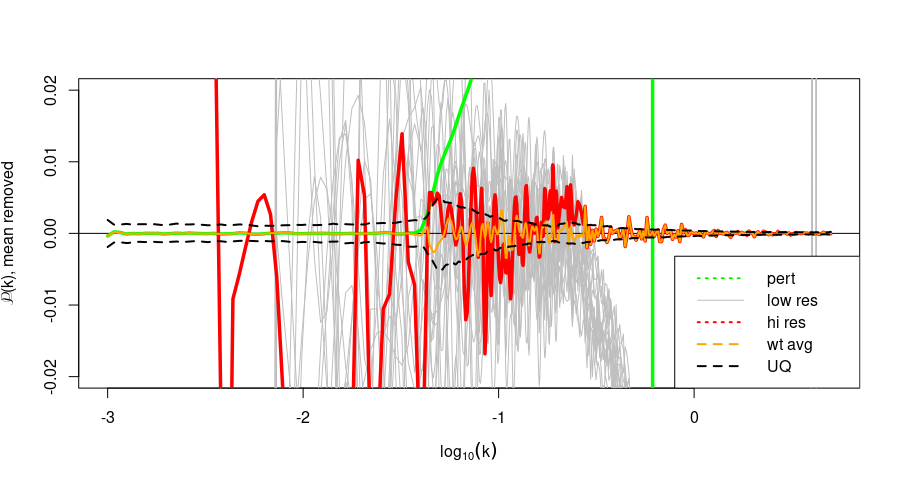
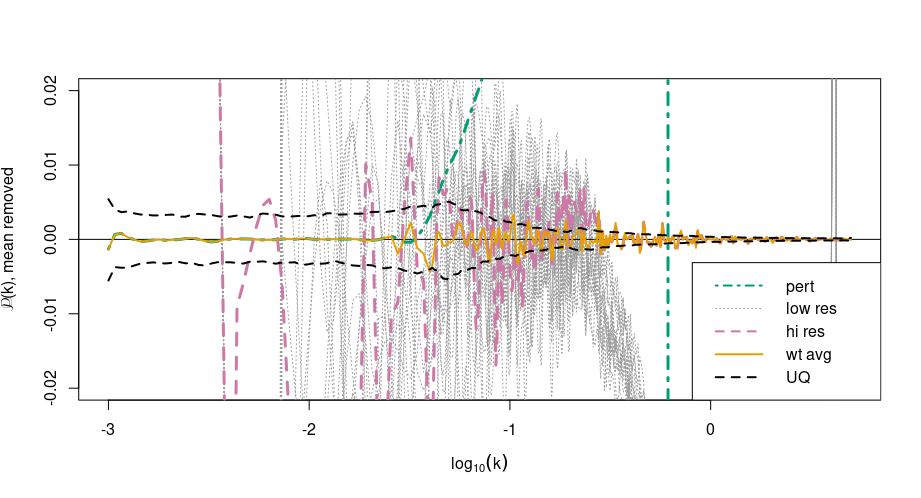
update sims plots' palette and layout

Changed region(s): [[0.0, 0.1543, 0.9644, 0.8642], [0.4667, 0.8951, 0.56, 0.9568], [0.1244, 0.4012, 0.1556, 0.4321]]

diff --git a/paper/main.tex b/paper/main.tex
@@ -145,13 +145,19 @@ We discuss the elliptical slice sampling of $W$, but otherwise it is plugged in 
 \subsection{Simulation Study}
 \label{subsec:sim}
 
-Here, we provide results from a simulation study comparing the GP and DGP models, in which case the true curve is known. Following \cite{moran2024dpc}, we consider two functions (1 and 2) each with three variance specifications (settings ``A", ``B", ``C"). Our mean squared error (MSE) results are seen in Figure \ref{fig:collect_sims}; our DGP-HM model outperforms these current benchmark methods. \textcolor{blue}{We can also include a setting ``D", where the underlying error covariance has spatial dependence (e.g., noise with a Mat'ern covariance). Additionally, we can look at linear theory simulations.}
+Here, we provide results from a simulation study comparing the GP and DGP models, in which case the true curve is known. Following \cite{moran2024dpc}, we consider two functions (1 and 2) each with three variance specifications (settings ``A", ``B", ``C"). Our mean squared error (MSE) results are seen in Figure \ref{fig:sims_MSE}; our DGP-HM model outperforms these current benchmark methods. \textcolor{blue}{We can also include a setting ``D", where the underlying error covariance has spatial dependence (e.g., noise with a Mat'ern covariance). Additionally, we can look at linear theory simulations.}
 
 \begin{figure}[ht]
     \centering
-    \includegraphics[width=6in]{collect_sims.png}
-    \caption{Average MSE of our method across all $k$ values. \textcolor{blue}{Add competitors.}}
-    \label{fig:collect_sims}
+    \includegraphics[width=6in]{sims_logS.png}
+    \caption{Boxplot of log scores across two different functions and covariance settings (lower is better). For each case, twenty random batches were simulated.}
+    \label{fig:sims_logS}
+\end{figure}
+
+\begin{figure}[ht]
+    \centering
+    \includegraphics[width=6in]{sims_MSE.png}
+    \caption{Boxplot of MSEs across two different functions and covariance settings (lower is better). For each case, twenty random batches were simulated.}    \label{fig:sims_MSE}
 \end{figure}
 
 \subsection{CAMB Data}
@@ -208,12 +214,12 @@ In addition to predicting for held-out cosmologies, we can also predict over a l
     \label{fig:plot_rmse_k}
 \end{figure}
 
-\begin{figure}[ht]
-    \centering
-    \includegraphics[width=6in]{rmse_box.png}
-    \caption{Boxplot of all RMSEs of each method across all six test models. From top to bottom: box plots for our training method, process convolution training method, Cosmic EMU predictions, and our DGP-PC predictions.}
-    \label{fig:plot_rmse_box}
-\end{figure}
+% \begin{figure}[ht]
+%     \centering
+%     \includegraphics[width=6in]{rmse_box.png}
+%     \caption{Boxplot of all RMSEs of each method across all six test models. From top to bottom: box plots for our training method, process convolution training method, Cosmic EMU predictions, and our DGP-PC predictions.}
+%     \label{fig:plot_rmse_box}
+% \end{figure}
 
 \section{Discussion}
 \label{sec:disc}
